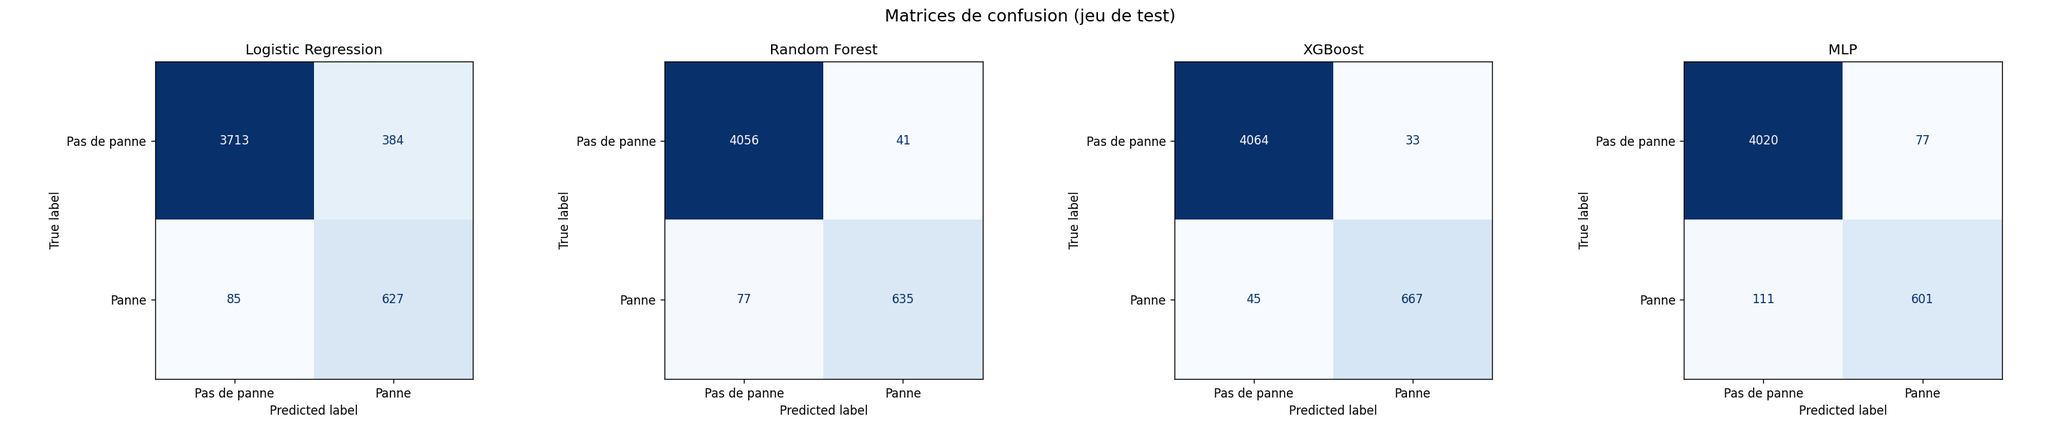
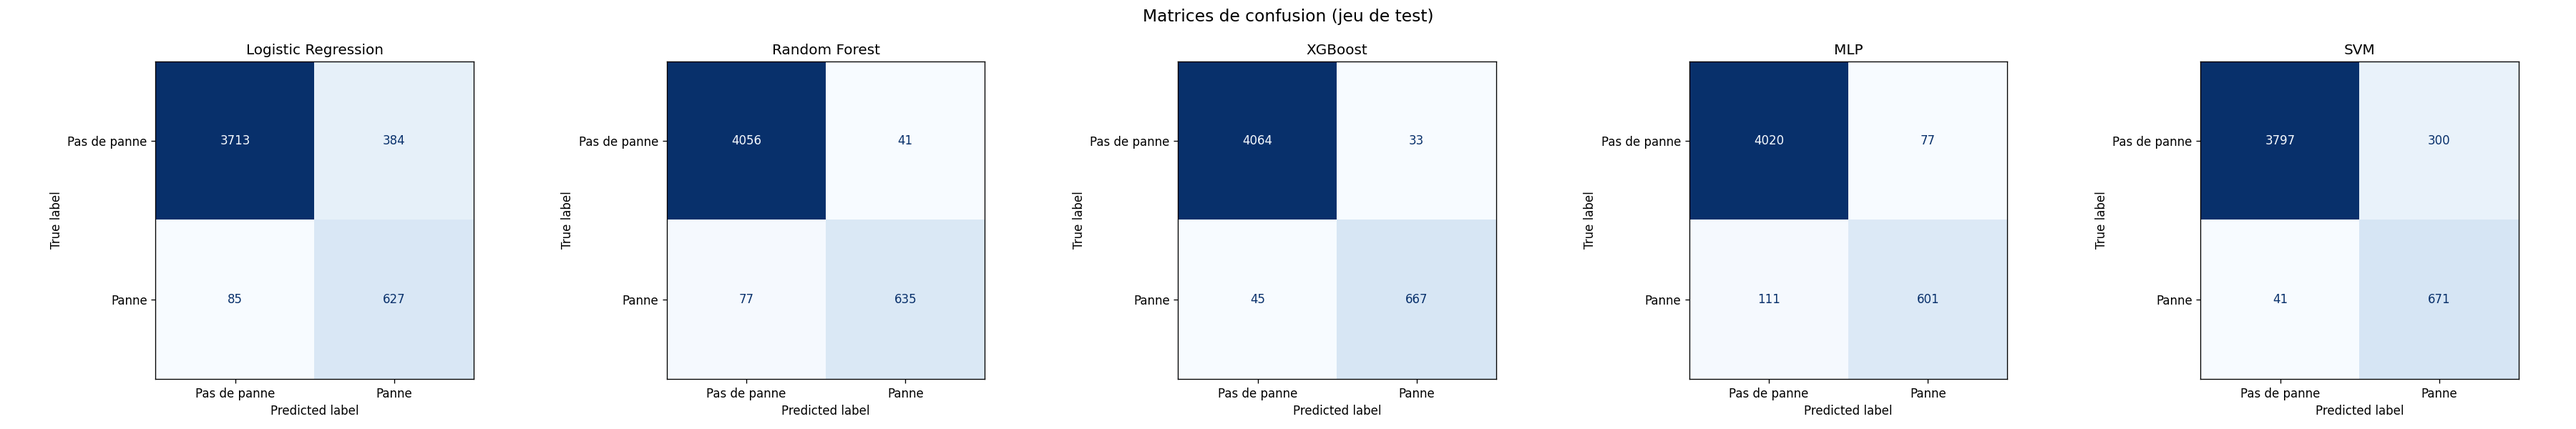
Add SVM model support and update training pipelines; include performance metrics and configuration files

diff --git a/IA/Sujet_1/src/train.py b/IA/Sujet_1/src/train.py
@@ -8,6 +8,7 @@ from sklearn.pipeline import Pipeline
 from sklearn.linear_model import LogisticRegression, Ridge
 from sklearn.ensemble import RandomForestClassifier, RandomForestRegressor
 from sklearn.neural_network import MLPClassifier, MLPRegressor
+from sklearn.svm import SVC, SVR
 from sklearn.impute import SimpleImputer
 from sklearn.preprocessing import StandardScaler, LabelEncoder
 from sklearn.model_selection import cross_val_score, StratifiedKFold
@@ -19,6 +20,7 @@ MODEL_FILENAMES = {
     'Random Forest':       'random_forest_failure_24h.joblib',
     'XGBoost':             'xgboost_failure_24h.joblib',
     'MLP':                 'mlp_failure_24h.joblib',
+    'SVM':                 'svm_failure_24h.joblib',
 }
 
 MODEL_FILENAMES_TYPE = {
@@ -26,6 +28,7 @@ MODEL_FILENAMES_TYPE = {
     'Random Forest':       'random_forest_failure_type.joblib',
     'XGBoost':             'xgboost_failure_type.joblib',
     'MLP':                 'mlp_failure_type.joblib',
+    'SVM':                 'svm_failure_type.joblib',
 }
 
 
@@ -79,6 +82,14 @@ def build_pipelines() -> dict:
                 hidden_layer_sizes=(128, 64), activation='relu',
                 max_iter=500, random_state=42, early_stopping=True,
                 validation_fraction=0.1
+            ))
+        ]),
+        'SVM': Pipeline([
+            ('imputer', SimpleImputer(strategy='median')),
+            ('scaler', StandardScaler()),
+            ('clf', SVC(
+                kernel='rbf', C=1.0, class_weight='balanced',
+                random_state=42, probability=True
             ))
         ]),
     }
@@ -135,6 +146,14 @@ def build_pipelines_type() -> dict:
                 max_iter=500, random_state=42, early_stopping=False,
             ))
         ]),
+        'SVM': Pipeline([
+            ('imputer', SimpleImputer(strategy='median')),
+            ('scaler', StandardScaler()),
+            ('clf', SVC(
+                kernel='rbf', C=1.0, class_weight='balanced',
+                random_state=42, probability=True
+            ))
+        ]),
     }
 
 
@@ -158,6 +177,7 @@ MODEL_FILENAMES_RUL = {
     'Random Forest':       'random_forest_rul.joblib',
     'XGBoost':             'xgboost_rul.joblib',
     'MLP':                 'mlp_rul.joblib',
+    'SVM':                 'svm_rul.joblib',
 }
 
 
@@ -188,6 +208,11 @@ def build_pipelines_rul() -> dict:
                 max_iter=500, random_state=42, early_stopping=True,
                 validation_fraction=0.1
             ))
+        ]),
+        'SVM': Pipeline([
+            ('imputer', SimpleImputer(strategy='median')),
+            ('scaler', StandardScaler()),
+            ('reg', SVR(kernel='rbf', C=1.0))
         ]),
     }
 

diff --git a/IA/Sujet_1/train_pipeline.py b/IA/Sujet_1/train_pipeline.py
@@ -56,7 +56,7 @@ def main():
     # Sauvegarde stats failure_24h
     stats_dir = os.path.join(os.path.dirname(os.path.abspath(__file__)), 'models_stats', 'failure_24h')
     os.makedirs(stats_dir, exist_ok=True)
-    _name_map = {'Logistic Regression': 'logistic_regression', 'Random Forest': 'random_forest', 'XGBoost': 'xgboost', 'MLP': 'mlp'}
+    _name_map = {'Logistic Regression': 'logistic_regression', 'Random Forest': 'random_forest', 'XGBoost': 'xgboost', 'MLP': 'mlp', 'SVM': 'svm'}
     for model_name, row in results_df.iterrows():
         key = _name_map.get(model_name, model_name.lower().replace(' ', '_'))
         with open(os.path.join(stats_dir, f'{key}.json'), 'w') as f:
@@ -84,7 +84,7 @@ def main():
 
     stats_rul_dir = os.path.join(os.path.dirname(os.path.abspath(__file__)), 'models_stats', 'rul')
     os.makedirs(stats_rul_dir, exist_ok=True)
-    _rul_name_map = {'Régression Linéaire': 'logistic_regression', 'Random Forest': 'random_forest', 'XGBoost': 'xgboost', 'MLP': 'mlp'}
+    _rul_name_map = {'Régression Linéaire': 'logistic_regression', 'Random Forest': 'random_forest', 'XGBoost': 'xgboost', 'MLP': 'mlp', 'SVM': 'svm'}
     for model_name, row in results_rul_df.iterrows():
         key = _rul_name_map.get(model_name, model_name.lower().replace(' ', '_'))
         with open(os.path.join(stats_rul_dir, f'{key}.json'), 'w') as f:
